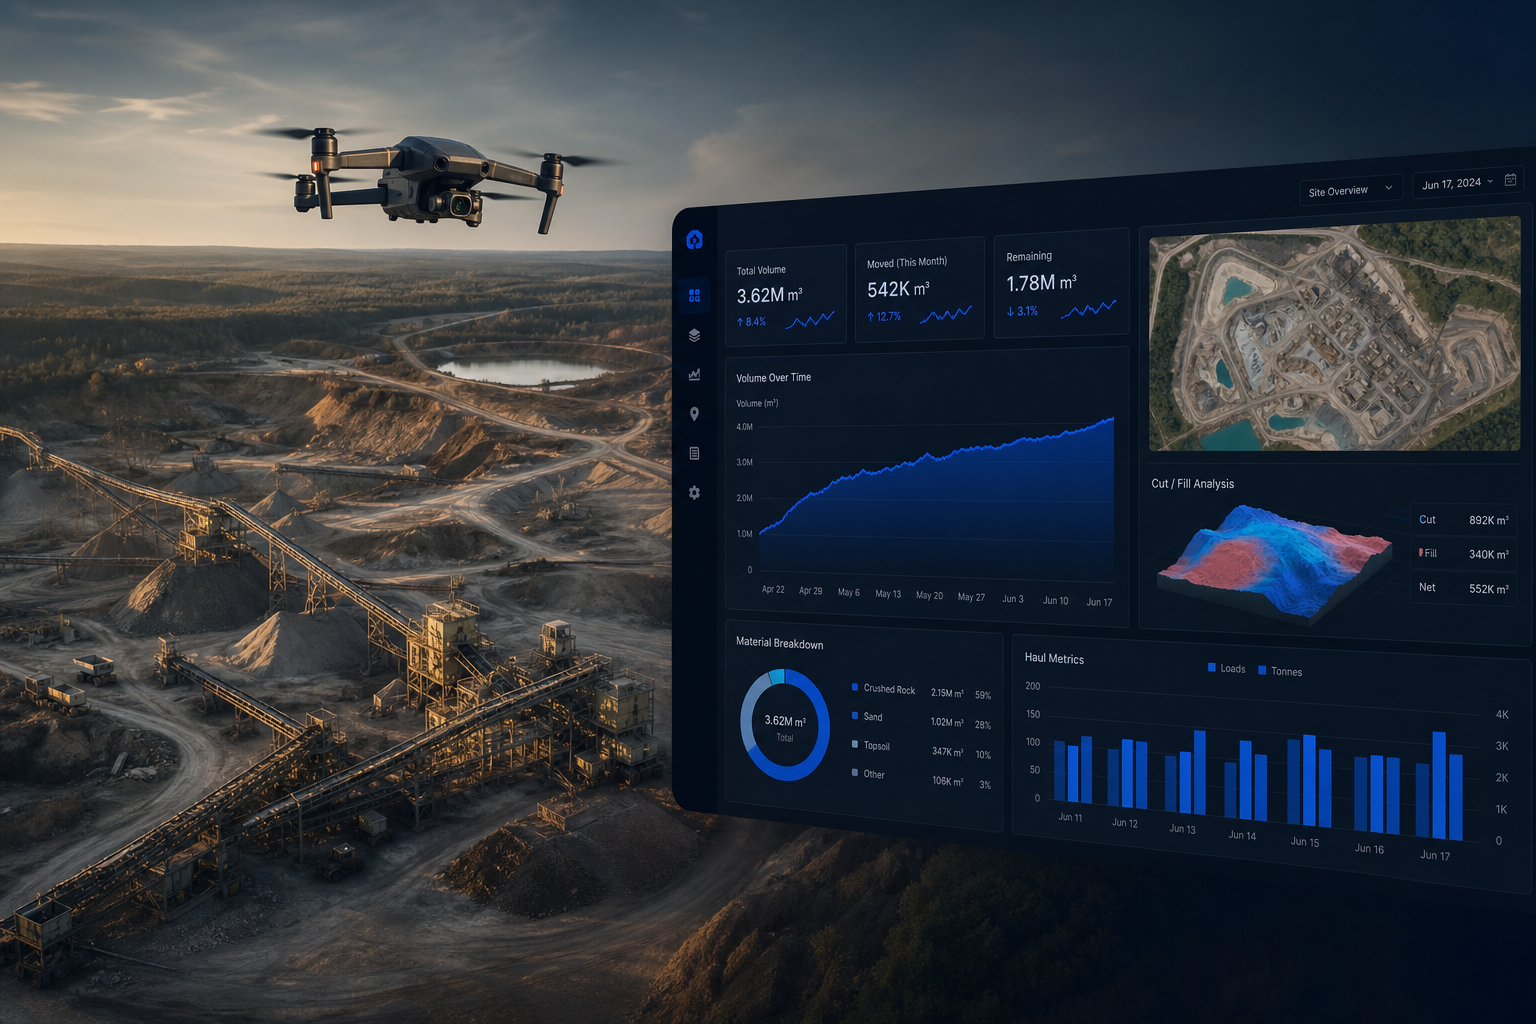
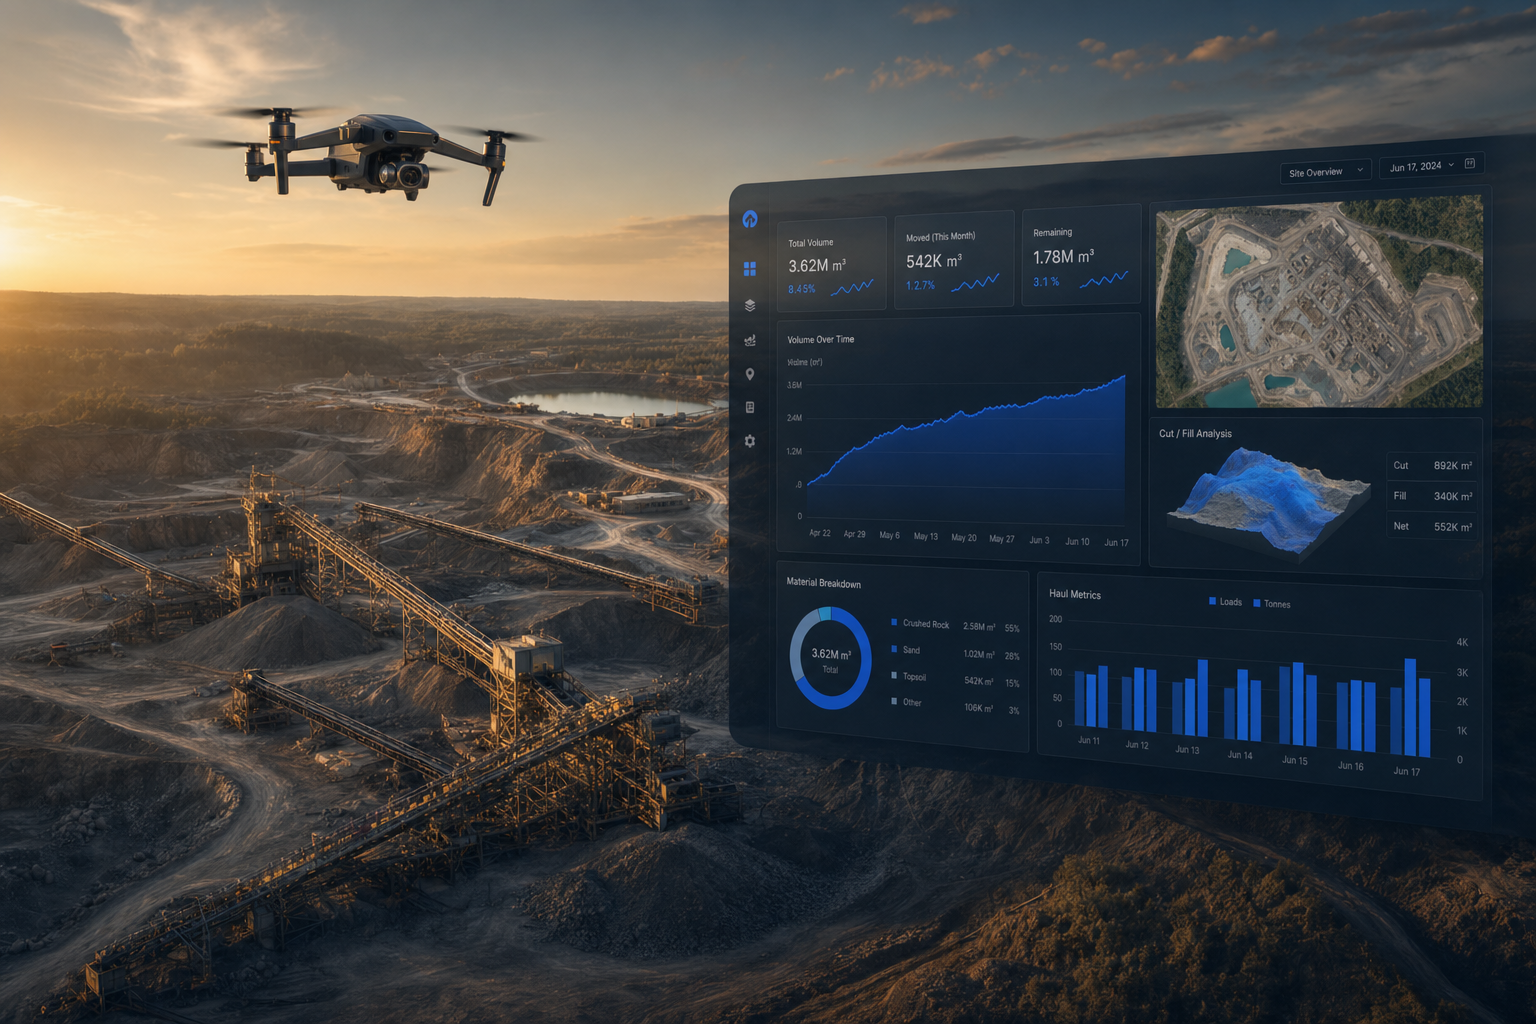
Complete hero refinements with integrated artwork and cinematic polish.
Replace the hero image with a more naturally composited scene-to-dashboard visual, enlarge and tighten the layout, boost contrast, add subtle atmospheric depth, and remove glow effects from the hero background.

diff --git a/src/components/home/HomeHero.tsx b/src/components/home/HomeHero.tsx
@@ -9,10 +9,10 @@ export default function HomeHero() {
       {/* Background */}
       <div className="pointer-events-none absolute inset-0" aria-hidden>
         <div className="absolute inset-0 bg-gradient-to-br from-[#050816] via-[#071428] to-[#0a1628]" />
-        <div className="absolute inset-0 bg-[radial-gradient(ellipse_80%_60%_at_20%_0%,rgba(37,99,235,0.22),transparent_55%)]" />
-        <div className="absolute inset-0 bg-[radial-gradient(ellipse_60%_50%_at_90%_80%,rgba(37,99,235,0.12),transparent_50%)]" />
+        <div className="absolute inset-0 bg-[radial-gradient(ellipse_80%_60%_at_20%_0%,rgba(37,99,235,0.14),transparent_55%)]" />
+        <div className="absolute inset-0 bg-[radial-gradient(ellipse_60%_50%_at_90%_80%,rgba(37,99,235,0.08),transparent_50%)]" />
         <div
-          className="absolute inset-0 opacity-[0.035]"
+          className="absolute inset-0 opacity-[0.03]"
           style={{
             backgroundImage: `
               linear-gradient(rgba(148,163,184,0.5) 1px, transparent 1px),
@@ -21,8 +21,6 @@ export default function HomeHero() {
             backgroundSize: "72px 72px",
           }}
         />
-        <div className="absolute -left-1/4 top-0 h-[520px] w-[520px] animate-[pulse_10s_ease-in-out_infinite] rounded-full bg-[#2563eb]/10 blur-[120px]" />
-        <div className="absolute -right-1/4 bottom-0 h-[480px] w-[480px] animate-[pulse_12s_ease-in-out_infinite_2s] rounded-full bg-[#1d4ed8]/10 blur-[100px]" />
       </div>
 
       <div className="relative mx-auto max-w-[1280px] px-6 pb-12 pt-[104px] sm:px-8 lg:px-6 lg:pb-16 lg:pt-[120px]">
@@ -62,21 +60,21 @@ export default function HomeHero() {
           </div>
 
           {/* Right column — single composed hero artwork */}
-          <div className="relative mx-auto w-full lg:mx-0 lg:-mr-4 xl:-mr-8">
-            <div className="relative aspect-[4/3] overflow-hidden rounded-2xl border border-white/[0.06] bg-[#0c1222] shadow-[0_24px_64px_rgba(0,0,0,0.45)] sm:rounded-3xl lg:aspect-[5/4] lg:scale-[1.2] lg:origin-left xl:scale-[1.2]">
+          <div className="relative mx-auto w-full lg:mx-0 lg:-mr-6 xl:-mr-10">
+            <div className="relative aspect-[4/3] overflow-hidden rounded-2xl border border-white/[0.06] bg-[#0c1222] shadow-[0_24px_64px_rgba(0,0,0,0.45)] sm:rounded-3xl sm:scale-[1.05] sm:origin-left lg:aspect-[5/4] lg:scale-[1.2] lg:origin-left">
               <Image
                 src={HERO_ARTWORK}
                 alt="Drone surveying an industrial quarry site with aerial intelligence platform dashboard"
                 fill
                 priority
-                className="object-cover object-center contrast-[1.12] saturate-[1.14] brightness-[1.04]"
-                sizes="(max-width: 1024px) 100vw, 768px"
+                className="object-cover object-center contrast-[1.14] saturate-[1.16] brightness-[1.03]"
+                sizes="(max-width: 1024px) 100vw, 820px"
               />
-              <div className="absolute inset-0 bg-gradient-to-br from-[#2563eb]/[0.07] via-transparent to-[#1e3a5f]/[0.09]" />
-              <div className="absolute inset-0 bg-gradient-to-t from-[#050816]/35 via-transparent to-[#2563eb]/[0.05]" />
-              <div className="absolute inset-0 bg-[radial-gradient(ellipse_at_70%_45%,rgba(37,99,235,0.08),transparent_55%)]" />
-              <div className="absolute inset-0 bg-[radial-gradient(ellipse_at_center,transparent_42%,rgba(5,8,22,0.22)_100%)]" />
-              <div className="absolute inset-0 bg-gradient-to-l from-[#050816]/25 via-[#050816]/[0.03] to-transparent" />
+              <div className="absolute inset-0 bg-gradient-to-br from-[#2563eb]/[0.06] via-transparent to-[#1e3a5f]/[0.08]" />
+              <div className="absolute inset-0 bg-gradient-to-t from-[#050816]/30 via-transparent to-[#2563eb]/[0.04]" />
+              <div className="absolute inset-0 bg-[radial-gradient(ellipse_at_72%_42%,rgba(37,99,235,0.07),transparent_58%)]" />
+              <div className="absolute inset-0 bg-[radial-gradient(ellipse_at_center,transparent_44%,rgba(5,8,22,0.2)_100%)]" />
+              <div className="absolute inset-0 bg-gradient-to-l from-[#050816]/22 via-[#050816]/[0.02] to-transparent" />
             </div>
           </div>
         </div>
